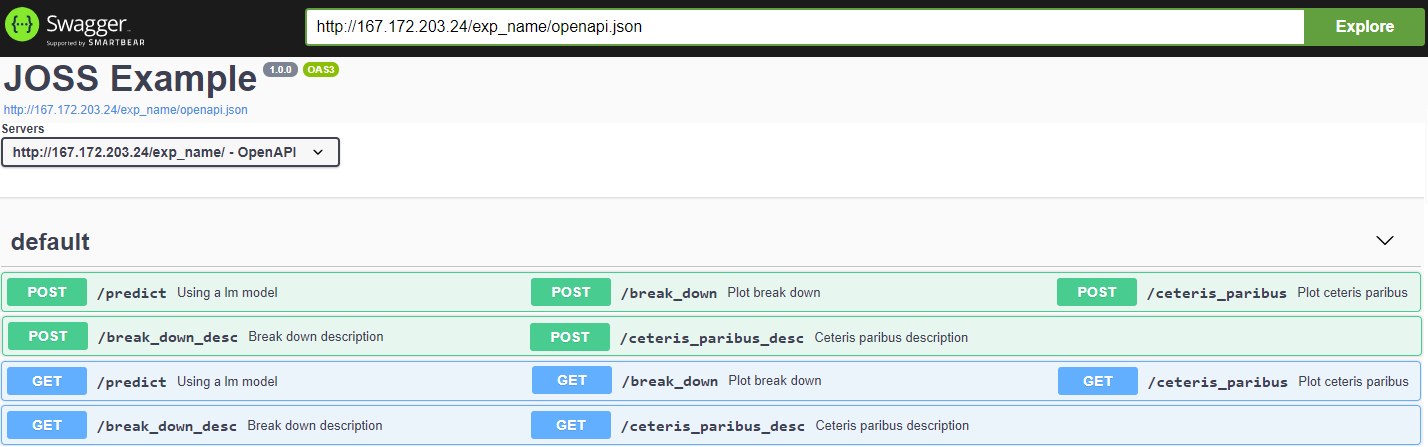
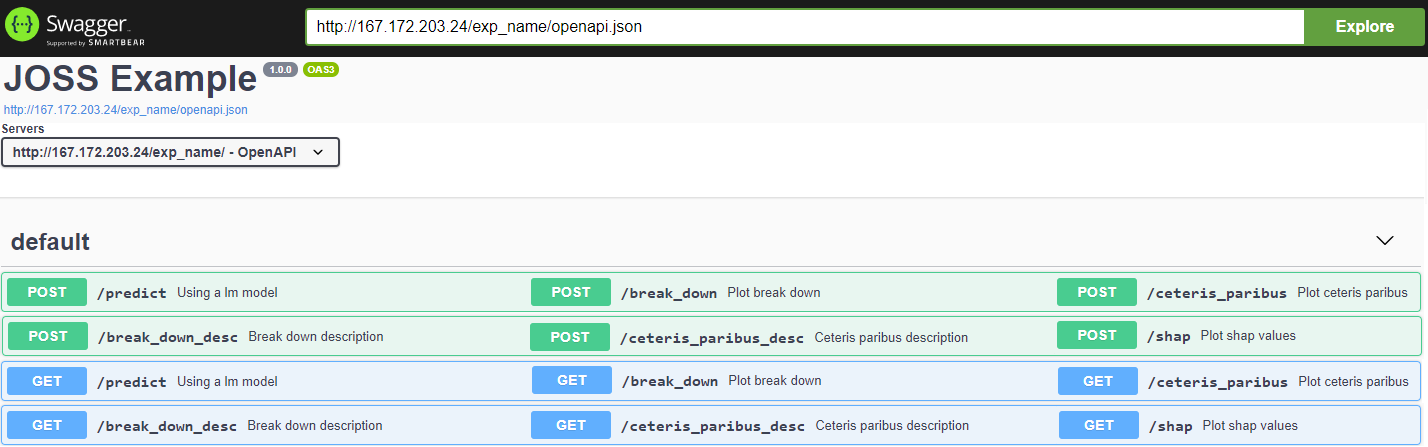
Update

Changed region(s): [[0.7395, 0.698, 0.9244, 0.7852], [0.7395, 0.9016, 0.9244, 0.9888]]

diff --git a/paper.md b/paper.md
@@ -29,7 +29,7 @@ The growing number of excellent libraries for R and Python simplify and automate
 Created API allows not only to query the model on new points, but also generates an instance-level explanations of the reasons behind the value of a specific prediction.
 With the arising interest in eXplainable Artificial Intelligence (XAI) many tools for exploring machine learning models emerged. Among the most popular solutions `SHAP` [@Lundberg:2017], `DALEX` [@Biecek:2018] or the `What-If` [@Wexler:2019]. These libraries are very useful for building or debugging a model, but they are not integrated with the model deployment on production. The `xai2cloud` package treats explainability as an integral component of model functioning, offering the most popular XAI methods available with the same interface as model predictions.
 
-There are also other libraries in R to explore the model, such as `modelStudio` [@Baniecki:2019] (for precalculated statistics for serverless exploration), `archivist` [@Archivist:2017] (a database of meta-features of objects allowing for easier model searching and governance)`trackr` [@Becker] (focused on the reproducibility of models), `modelDown` [@Romaszko2019] (automatically generated documentation for the model in HTML static page), `workflowr` (automation of model construction) and many others. 
+There are also other libraries in R to explore the model, such as `modelStudio` [@Baniecki:2019] (for precalculated statistics for serverless exploration), `archivist` [@Archivist:2017] (a database of meta-features of objects allowing for easier model searching and governance), `trackr` [@Becker] (focused on the reproducibility of models), `modelDown` [@Romaszko2019] (automatically generated documentation for the model in HTML static page), `workflowr` (automation of model construction) and many others. 
 But `xai2could` is the only package that allows you to interact with a live model and share models that are not frozen copies but working functions that can be combined with other cloud based solutions.
 
 
@@ -37,7 +37,7 @@ But `xai2could` is the only package that allows you to interact with a live mode
 
 The `xai2cloud` is built on top of the `plumber` [@Plumber:2020] and `analogsea` [@Analogsea:2020] R packages. Those tools are combined with the tools for model exploration and explanation such as `ingredients` [@Biecek:2020] and `iBreakDown` [@Gosiewska:2019]. It is easier to explore results visually than by raw numbers [@Alexandra:2010] so the `xai2could` API generates also visual summaries.
 
-The `xai2cloud` package is developed for R [@R:2020] but the proposed architecture can also be replicated in languages. 
+The `xai2cloud` package is developed for R [@R:2020] but the proposed architecture can also be replicated in other languages. 
 
 Despite cloud-based solutions being commonly associated with setup difficulty and high entry threshold, xai2cloud is created with simplicity in mind. Configuration of the cloud environment is a one-time activity that is thoroughly explained at the package's [website](https://modeloriented.github.io/xai2cloud/). 
 
@@ -57,12 +57,13 @@ Droplet setup is requisite to start working with model deployment using xai2clou
 
 * 1. Create a model
 ```r
-model <- glm(survived~., data = titanic_imputed, family = "binomial")
+library("ranger")
+library("DALEX")
+model <- ranger(survived~., data = titanic_imputed)
 ```
 
 * 2. Wrap it into a DALEX explainer
 ```r
-library("DALEX")
 exp_name <- explain(model, 
                     data = titanic_imputed[,-8],
                     y = titanic_imputed$survived)
@@ -83,8 +84,8 @@ droplet_id <- specific_droplet$id
 * 5. Deploy the explainer to the selected droplet
 ```r
 library("xai2cloud")
-deploy_explainer(exp_name, model_package = 'stats',
-                 droplet=droplet_id, port=8080, title="JOSS Example")
+deploy_explainer(exp_name, model_package = 'ranger',
+                 droplet=droplet_id, port=8070, title="JOSS Example")
 ```
 
 
@@ -92,13 +93,15 @@ deploy_explainer(exp_name, model_package = 'stats',
 
 The deployed explainer is active as an application compliant to the representational state transfer architecture operating on the droplet's server [@REST:2000]. It hosts five POST and GET hooks in total enabling the user to explore the model and its predictions. The features provided include not only a basic prediction of inputted data but also local model explanations:
 
-![An example of Break Down (1) and Ceteris Paribus (2) plots fenerated by the API for a Titanic glm model \label{fig:plots}](plots2.png)
+![An example of Break Down (1), SHAP (2) and Ceteris Paribus (3) plots generated by the API for a Titanic ranger model \label{fig:plots}](plots2.png)
 
 \newpage
 
-* Predict TODO: warto napisać że z użyciem API można po prostu odputać model
-* SHAP TODO: warto napisać że liczy się tez shap [@Lundberg:2017]
-* Break Down [@Gosiewska:2019] plots present the contribution of each variable to the prediction. There are two hooks associated with this feature, one creates the plot and returns it as an image, the other one is a description consisting of crucial information that can be gathered from the Break Down plot \autoref{fig:plots} and is returned as a string.
+* The most basic feature provided by the API is the prediction hook. It returns an instant model's answer for any given observation.
+
+* Break Down [@Gosiewska:2019] plots present the contribution of each variable to the prediction. There are two hooks associated with this feature, one creates the plot and returns it as an image, the other one is a description consisting of crucial information that can be gathered from the Break Down plot and is returned as a string.
+
+* SHAP [@Lundberg:2017] plots offer another way of explaining the output of machine learning models by using classic Shapley values from game theory. The hook creates a plot enabling the user to take a look at each variable's contribution with a broader perspective.
 
 * Ceteris Paribus plots from the `ingredients` package [@Biecek:2018] present model responses around a single point in the feature space. It enables the user to view possible changes in model predictions allowing for changes in a single variable while keeping all other features constant. The results are also available as both a plot and a text description summing up crucial conclusions.
 
